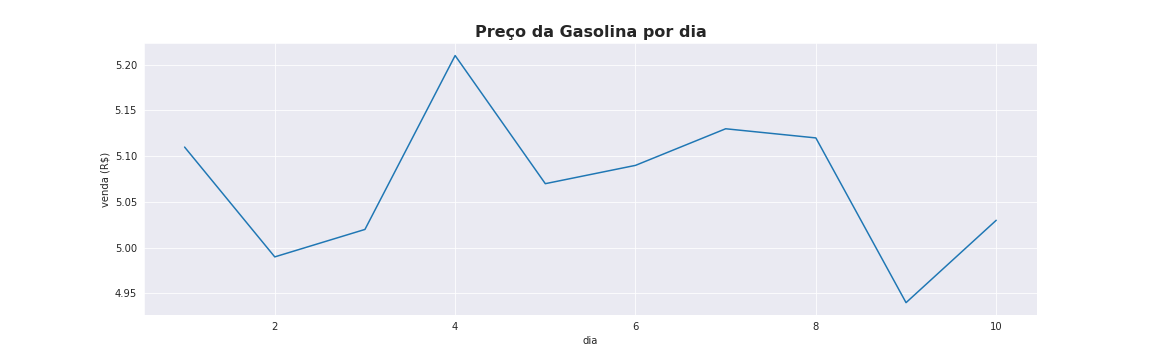
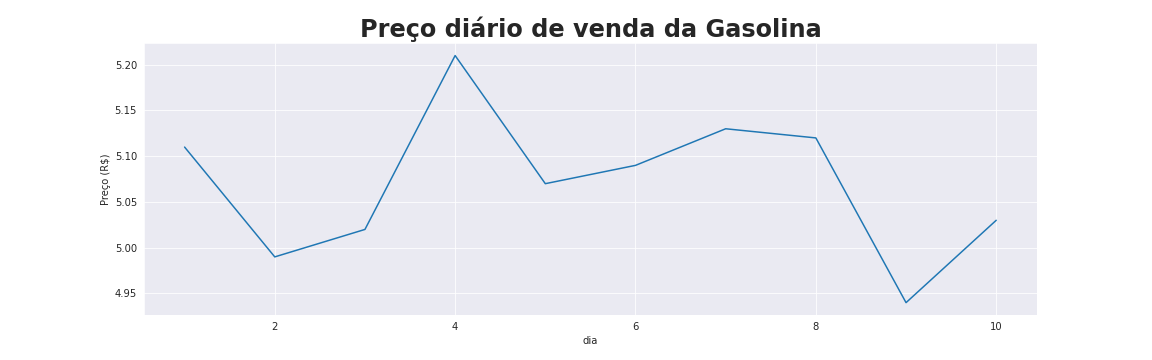
Título do grafico alterado no arquivo gasolina.py

Changed region(s): [[0.3125, 0.0611, 0.7188, 0.1222], [0.0625, 0.4278, 0.0938, 0.5806]]

diff --git a/gasolina.py b/gasolina.py
@@ -8,6 +8,6 @@ gas_df = pd.read_csv('gasolina.csv')
 with sns.axes_style('darkgrid'):
   fig, ax = plt.subplots(figsize=(16,5))
   graffic = sns.lineplot(data=gas_df, x='dia' , y='venda' , palette='pastel')
-  graffic.set_title('Preço da Gasolina por dia', size=16, fontweight='bold')
-  graffic.set(xlabel='dia', ylabel='venda (R$)')
+  graffic.set_title('Preço diário de venda da Gasolina', size=24, fontweight='bold')
+  graffic.set(xlabel='dia', ylabel='Preço (R$)')
   plt.savefig('gasolina.png')
